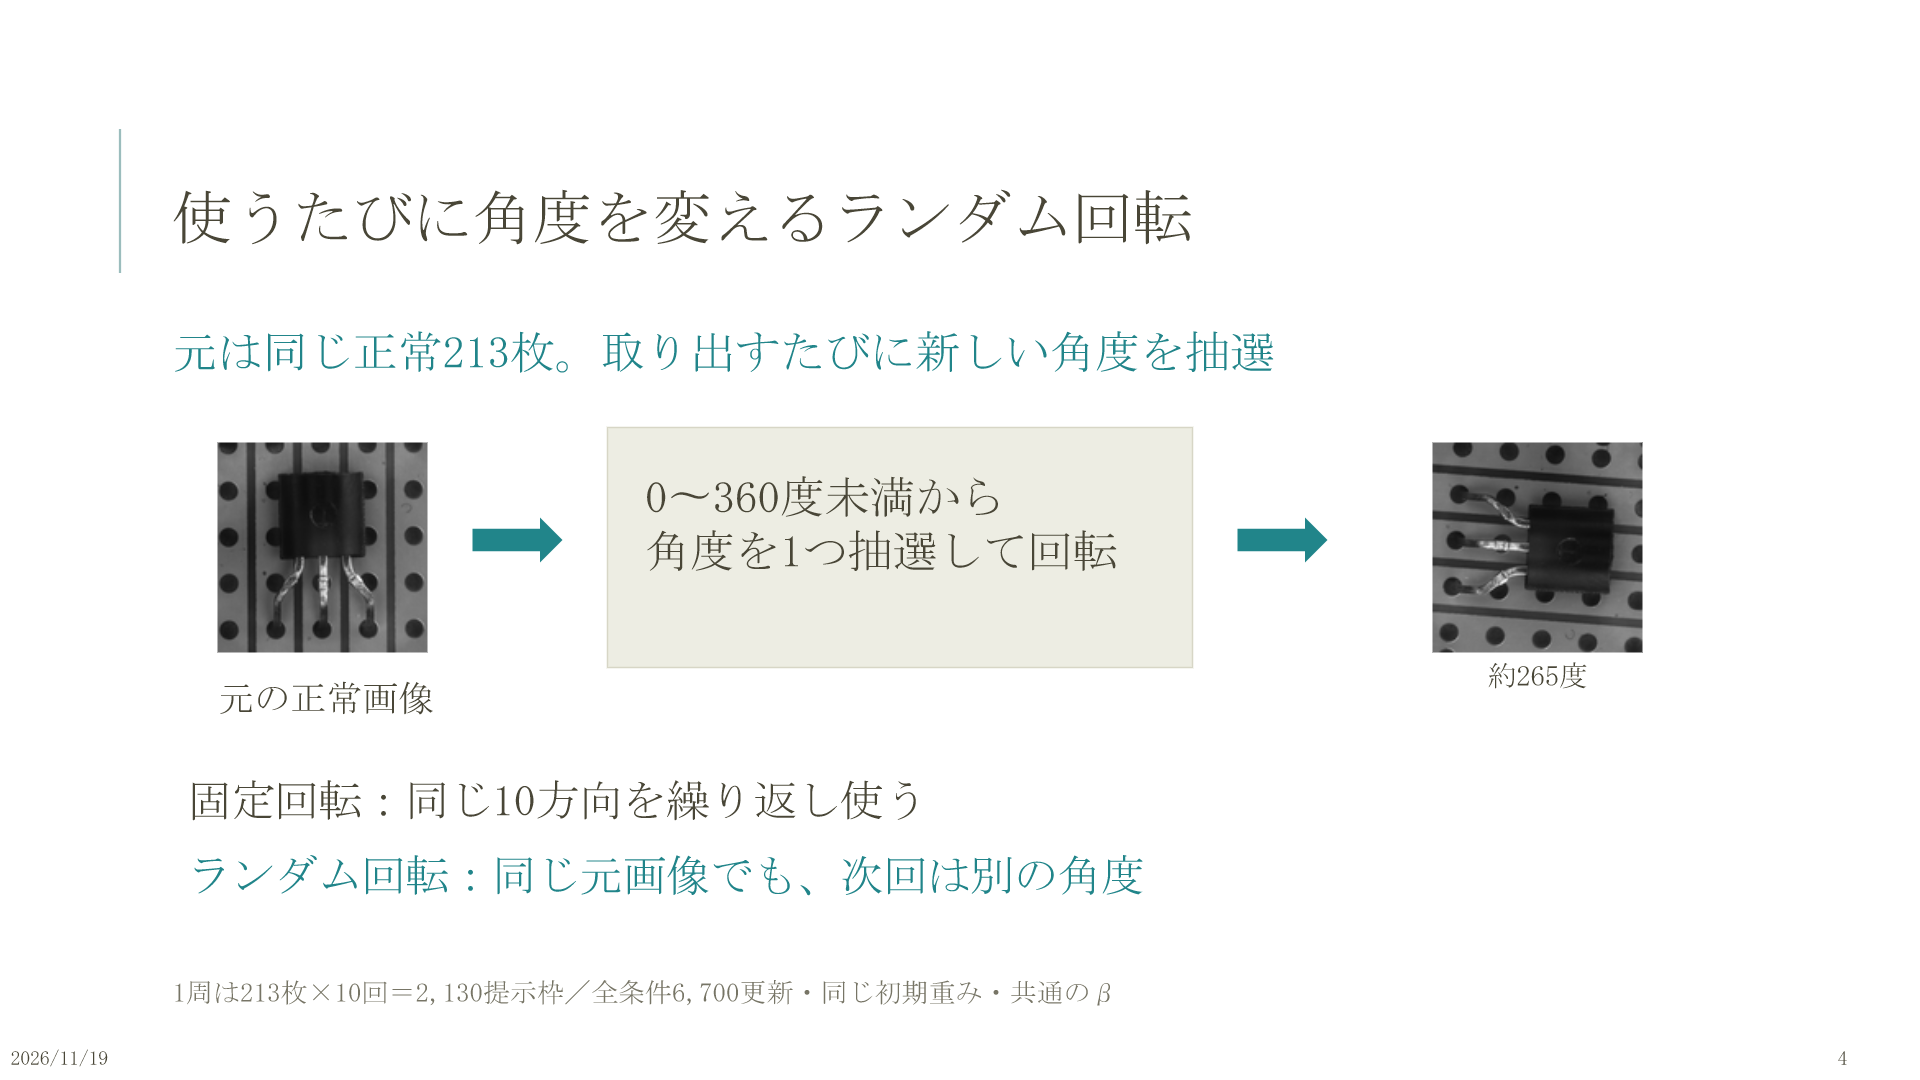
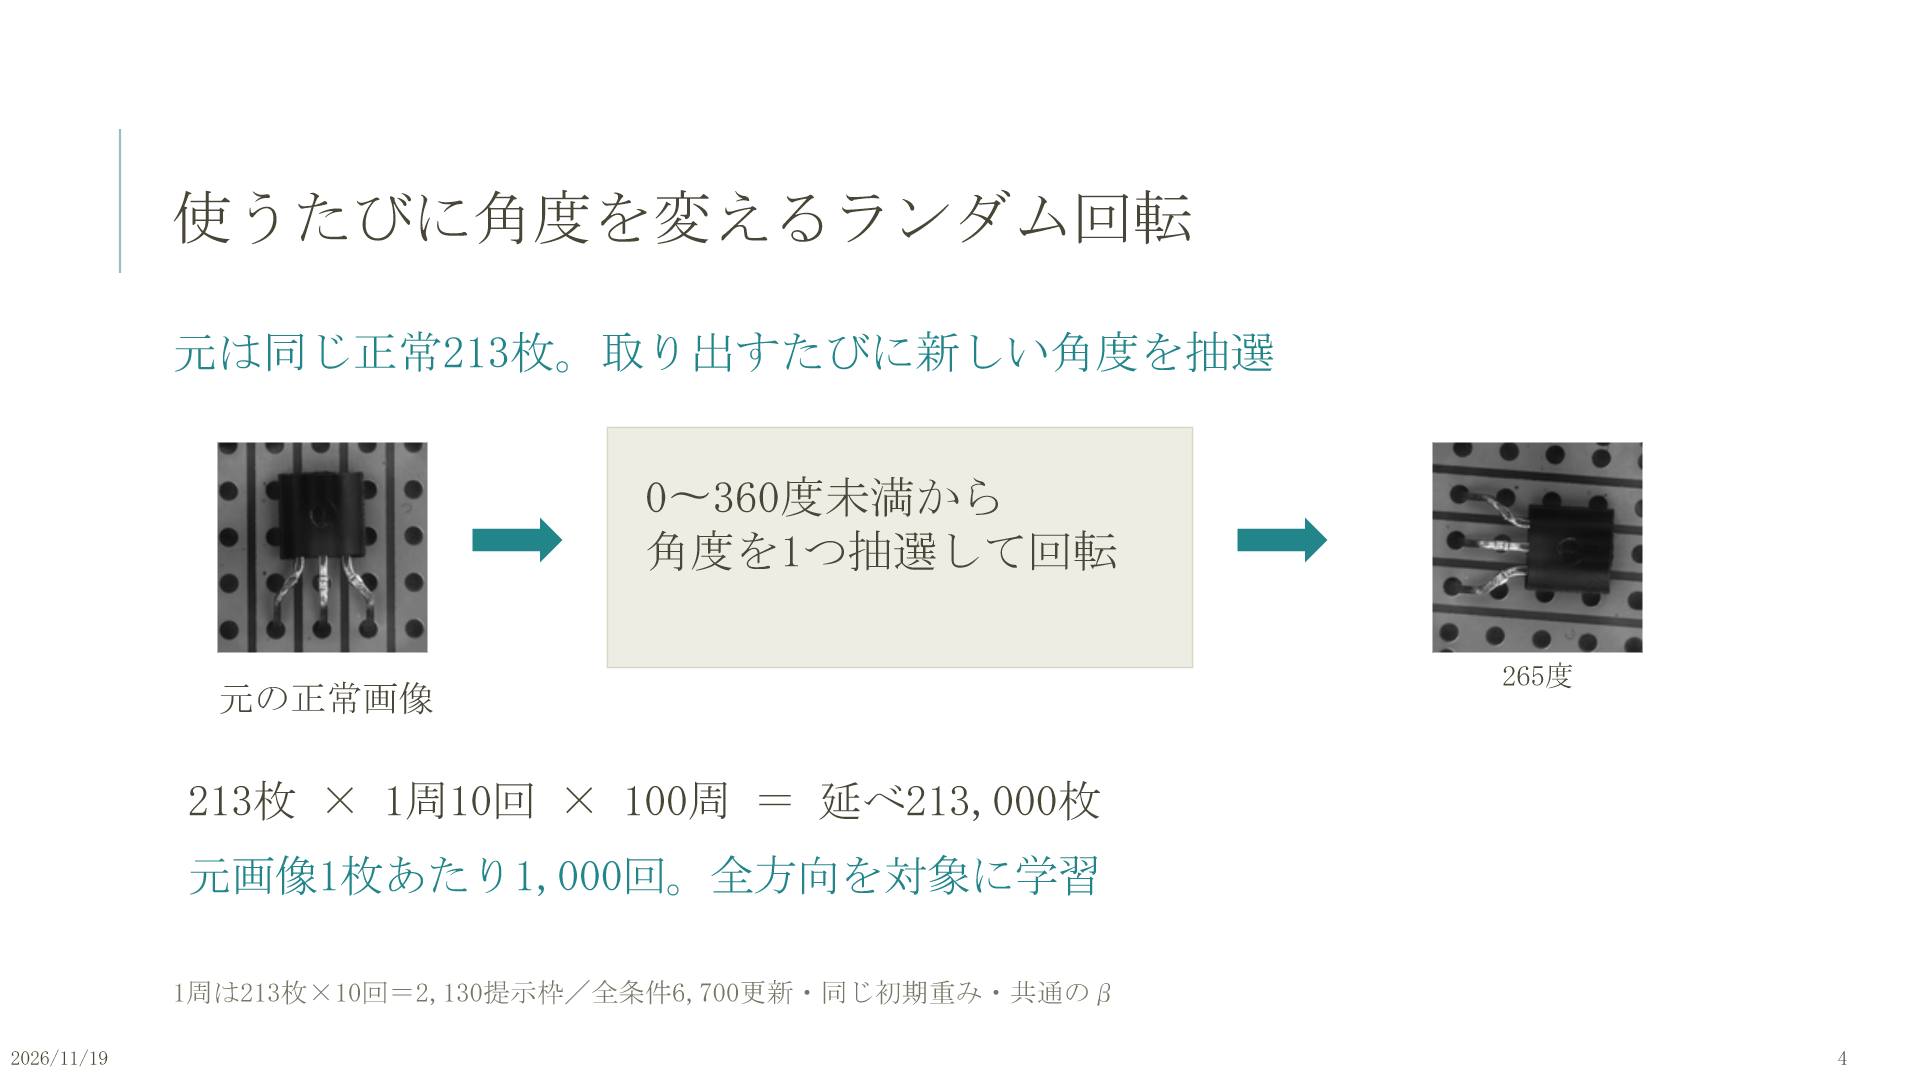
docs: ランダム回転学習の延べ入力数を報告資料v2に追記

Changed region(s): [[0.0938, 0.7028, 0.5625, 0.7639], [0.0938, 0.7944, 0.5938, 0.825], [0.7812, 0.6111, 0.8438, 0.6417]]

diff --git a/reports/2026年度秋セメスター/20261119/報告会_20261119_v2_構成と発表メモ.md b/reports/2026年度秋セメスター/20261119/報告会_20261119_v2_構成と発表メモ.md
@@ -22,7 +22,14 @@
 ## 角度表示の簡略化（2026-11-20）
 
 - 発表では「0〜360度の範囲から毎回ランダムに選ぶ」と説明し、小数の細かさには触れない。
-- 図の角度は「約265度」など、おおよその整数表示へ変更した。画像・実際の学習処理・実験条件は変更していない。
+- 図の角度は「265度」などの整数表示へ変更した。画像・実際の学習処理・実験条件は変更していない。
+
+## 学習に入力した延べ枚数の追記（2026-11-20）
+
+- 4枚目に「213枚 × 1周10回 × 100周 ＝ 延べ213,000枚」「元画像1枚あたり1,000回。全方向を対象に学習」を追記。
+- 根拠：`saved_models/transistor_rotation_followup_20261118/20261118_180211_7818e304/training/C_random/summary.json` の `seen_images: 213000`、`epochs_started: 100`、`updates: 6700`。
+- 元画像213枚を使った延べ入力数であり、独立した213,000製品画像でも、すべて異なる角度と確認した枚数でもない。全角度を漏れなく学習した保証とは区別する。
+- ユーザー指定により4・5枚目の角度ラベルから「約」を削除した。
 
 ## 報告の中心となる結論
 
@@ -111,14 +118,16 @@
 - 元は同じ正常213枚。取り出すたびに新しい角度を抽選
 - 元の正常画像
 - 0〜360度未満から／角度を1つ抽選して回転
-- 約265度
-- 固定回転：同じ10方向を繰り返し使う
-- ランダム回転：同じ元画像でも、次回は別の角度
+- 265度
+- 213枚 × 1周10回 × 100周 ＝ 延べ213,000枚
+- 元画像1枚あたり1,000回。全方向を対象に学習
 - 1周は213枚×10回＝2,130提示枠／全条件6,700更新・同じ初期重み・共通のβ
 
 **発表原稿**
 
-通常学習と固定回転は前回と同じ考え方です。今回はランダム回転の訓練画像を説明します。元になる正常画像は213枚です。画像を取り出すたびに、0〜360度の範囲から角度をランダムに1つ選び、高解像度で回してから128×128の白黒画像にします。同じ画像でも次に使うときは角度をもう一度選びます。固定10方向の画像を一度だけ作って使い回す方法ではありません。実装では213枚それぞれに1周10回分の提示枠があり、1周は2,130枠です。固定回転と枠の対応や順序をそろえ、3条件の更新回数も6,700回に統一しました。写真の角度は説明用のおおよその表示です。
+元になる正常画像は213枚です。画像を取り出すたびに、0〜360度の範囲から角度をランダムに1つ選び、回転して学習に使います。同じ画像でも次に使うときは角度を選び直します。今回は1周に各元画像を10回ずつ使い、100周学習したため、213枚×10回×100周で延べ213,000枚を入力しました。元画像1枚あたりでは1,000回です。このように固定10方向に限定せず、全方向を対象に多数の向きで学習しました。延べ枚数はモデルへ入力した回数で、すべて異なる角度・異なる画素の画像だったと確認した枚数ではありません。全ての角度を漏れなく学習した保証とも区別します。3条件とも6,700更新で、同じ初期重み・共通のβを使用しています。
+
+発表ノートの補足：角度ラベルは整数へ丸めた表示。画像と学習処理は変更していない。
 
 **出典・確認先**
 
@@ -139,23 +148,25 @@
 - 108度
 - 144度
 - ランダム回転／取り出したときの例
-- 約265度
-- 約54度
+- 265度
+- 54度
 - 300度
-- 約212度
+- 212度
 - 235度
 - ランダム回転／次に使うときの例
-- 約148度
+- 148度
 - 333度
-- 約144度
-- 約19度
-- 約164度
+- 144度
+- 19度
+- 164度
 - 同じ向きで使用
 - 正常学習画像000.png／ランダム角度は説明用の仮想例。実際の学習中の抽選記録ではない
 
 **発表原稿**
 
-1枚の正常学習画像から、どのような訓練画像を作るかを並べました。通常学習では同じ向きの元画像を使います。固定回転は0、36、72度など、あらかじめ決めた10方向です。ここでは5方向だけを表示しています。ランダム回転は0〜360度の範囲から、使うたびに角度を選びます。下の2行は同じ元画像を繰り返し使った場合の例で、次の回には別の角度になる点を示しています。角度ラベルはおおよその表示です。1枚から新しい独立した製品画像が増えたわけではありません。実装と同じ画像処理で作った説明用の例で、過去の学習中に実際に選ばれた角度の記録ではありません。背景の補完方法は必要に応じて説明します。
+1枚の正常学習画像から、どのような訓練画像を作るかを並べました。通常学習では同じ向きの元画像を使います。固定回転は0、36、72度など、あらかじめ決めた10方向です。ここでは5方向だけを表示しています。ランダム回転は0〜360度の全方向を対象に、使うたびに角度を選びます。下の2行は同じ元画像を繰り返し使った場合の例で、次の回には別の角度になる点を示しています。1枚から新しい独立した製品画像が増えたわけではありません。実装と同じ画像処理で作った説明用の例で、過去の学習中に実際に選ばれた角度の記録ではありません。背景の補完方法は必要に応じて説明します。
+
+発表ノートの補足：角度ラベルは整数へ丸めた表示。画像と学習処理は変更していない。
 
 **出典・確認先**
 

diff --git a/memory/memory.md b/memory/memory.md
@@ -708,3 +708,10 @@
 * **ユーザーの説明方針：** 報告では小数の細かさには触れず、「0〜360度の範囲から毎回ランダムに角度を選ぶ」と説明する。実際の学習コードが連続角度を抽選する処理であることは変更せず、1度刻みへ変更したと説明しない。
 * **承認済みの修正：** OneDriveの `報告会_20261119_v2(AI作成).pptx` の4・5枚目で、小数を含む8か所の角度ラベルを「約265度」「約54度」などの整数の概数へ変更。画像そのものは維持するため「約」を付け、発表ノートも簡潔な説明へ変更した。v2発表メモの両保存先と、該当ページ・一覧プレビューも更新。v1は変更しない。
 * **確認・運用：** 更新後の22枚を再描画し、修正した4・5枚目を目視確認。その他のページは既存プレビューと一致し、画像データ・既存グラフと埋め込みデータが変更されていないことも確認した。学習・推論・性能評価・ノートブック変更は行っていない。今回の記録・発表メモ・プレビューをローカルコミットし、pushしない。
+
+## 91. 2026-11-20：全方向を対象としたランダム回転学習の規模を報告へ追記
+
+* **説明上の合意：** 「全ての角度を漏れなく学習した」ではなく、「0〜360度の全方向を対象に、毎回角度をランダムに選んで学習した」と説明する。固定36度刻みの10方向との違いを伝える。乱数シードは再現性を与えるが、角度の均等な実現回数・全角度の網羅・全方向で同じ性能は保証しない。
+* **確認した実績：** transistorのランダム回転モデル `20261118_180211_7818e304/training/C_random/summary.json` に `seen_images: 213000`、`epochs_started: 100`、`updates: 6700` が保存されている。正常元画像213枚×1周10回×100周＝延べ213,000回の画像入力で、元画像1枚あたり1,000回となる。各回に角度を再抽選するが、これは延べ入力数であり、全て異なる角度・画素だったと確認した画像数や、独立した製品213,000枚ではない。
+* **承認済みの資料変更：** `報告会_20261119_v2(AI作成).pptx` の4枚目に上記計算式と「元画像1枚あたり1,000回。全方向を対象に学習」を追記。ユーザー希望により、4・5枚目の整数角度ラベルの「約」を外した。第90節の「約を付ける」方針は今回の決定で更新し、整数へ丸めた表示であることは発表ノートの補足にのみ保持。画像や実際の角度抽選処理は変更しない。
+* **保存・確認：** 現在のv2を作業前に一時バックアップし、その内容を基に更新。OneDriveの同名v2と発表メモ、リポジトリのv2発表メモ・プレビューを更新し、v1は残す。最終PPTXから22枚を再描画して4・5枚目を目視確認し、変更対象外の20ページは作業前の保存内容を描画した結果と一致した。画像データとグラフの数値・埋め込みデータも保持。学習・推論・性能評価・ノートブック変更は行わず、今回の研究記録と発表メモ・プレビューのみローカルコミットし、pushしない。
